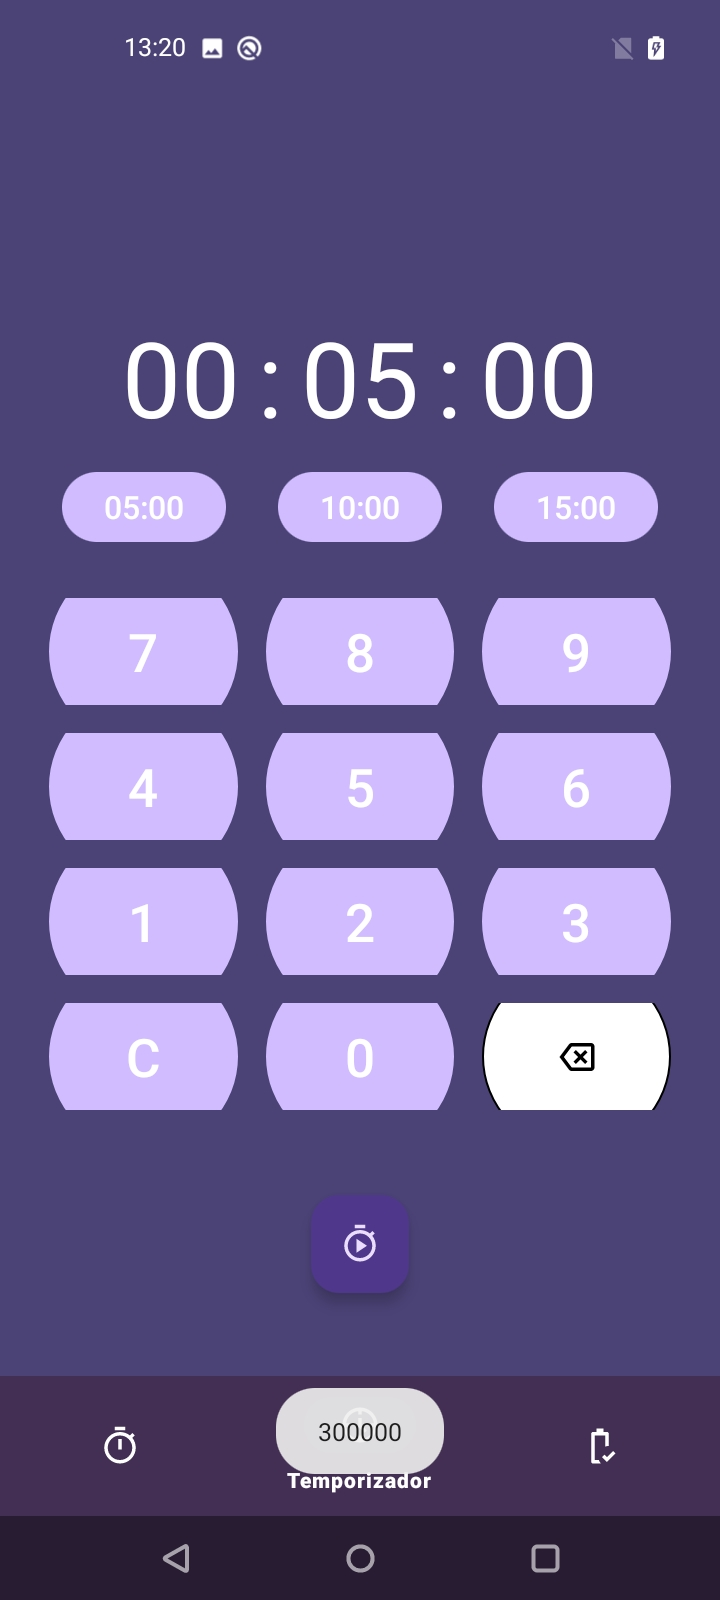
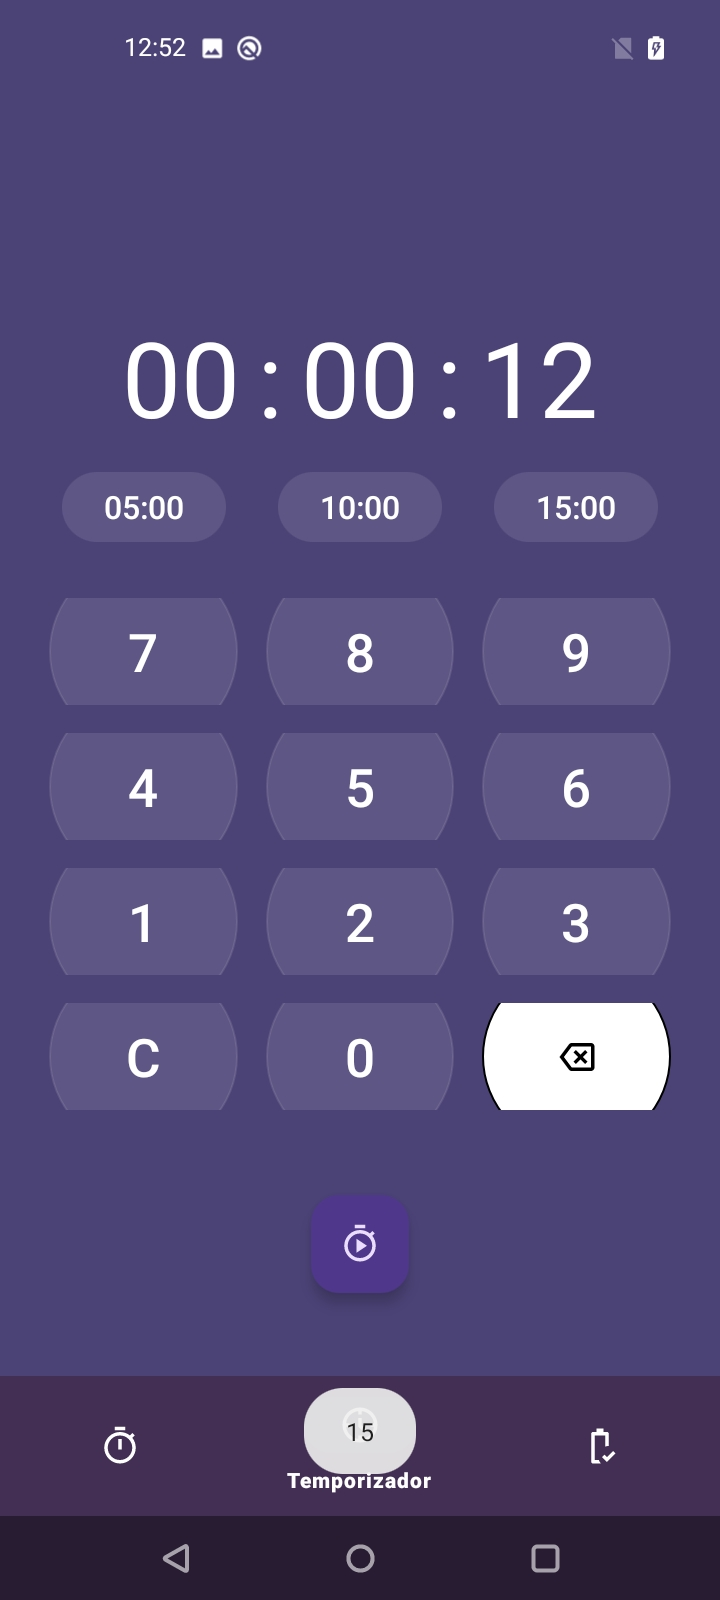
v 1.2.3

diff --git a/app/src/main/java/com/albrecht3/kompilation/clock/TimerFragment.kt b/app/src/main/java/com/albrecht3/kompilation/clock/TimerFragment.kt
@@ -61,50 +61,74 @@ class TimerFragment : Fragment() {
         initKeyboard()
         binding?.fabStart?.setOnClickListener {
             isClicked = !isClicked
-            Toast.makeText(requireContext(), valueTimer.toString(), Toast.LENGTH_LONG).show()
+            Toast.makeText(requireContext(), lapso, Toast.LENGTH_LONG).show()
             if (isClicked) {
                 startTimer(valueTimer)
                 disableButtons()
             }
         }
-        isClicked = false
     }
 
     private fun setTimeDefault() {
         val minute: Long = 60000
         binding?.btnSetTime1?.setOnClickListener {
-            valueTimer = 0
-            valueTimer = 5 * minute
-            binding?.tvTmpMin?.text = "05"
-            Toast.makeText(requireContext(), valueTimer.toString(), Toast.LENGTH_LONG).show()
+            lapso = "05"
+            valueTimer = lapso.toLong() * minute
+            binding?.tvTmpMin?.text = lapso
+            Toast.makeText(requireContext(), lapso, Toast.LENGTH_LONG).show()
         }
         binding?.btnSetTime2?.setOnClickListener {
-            valueTimer = 0
-            valueTimer = 10 * minute
-            binding?.tvTmpMin?.text = "10"
-            Toast.makeText(requireContext(), valueTimer.toString(), Toast.LENGTH_LONG).show()
+            lapso = "10"
+            valueTimer = lapso.toLong() * minute
+            binding?.tvTmpMin?.text = lapso
+            Toast.makeText(requireContext(), lapso, Toast.LENGTH_LONG).show()
         }
         binding?.btnSetTime3?.setOnClickListener {
-            valueTimer = 0
-            valueTimer = 15 * minute
-            binding?.tvTmpMin?.text = "15"
-            Toast.makeText(requireContext(), valueTimer.toString(), Toast.LENGTH_LONG).show()
+            lapso = "15"
+            valueTimer = lapso.toLong() * minute
+            binding?.tvTmpMin?.text = lapso
+            Toast.makeText(requireContext(), lapso, Toast.LENGTH_LONG).show()
         }
     }
 
     private fun initKeyboard() {
         val second: Long = 1000
+        var sec = ""
+        var min = ""
+        var hrs = ""
         binding?.gridKeyboard?.children?.filterIsInstance<Button>()?.forEach { button ->
             button.setOnClickListener {
                 val btnText = button.text.toString()
                 when {
                     btnText.matches("[0-9]".toRegex()) -> {
                         lapso += btnText
-                        valueTimer = lapso.toLong() * second
+                        if (lapso.toLong() <60){
+                            binding?.tvTmpSec?.text = makeTimeString(lapso.toLong())
+                            valueTimer = lapso.toLong() * second
+                        }else{
+                            lapsoChunked = lapso.reversed().chunked(2) { it.toString() }
+                            if (lapsoChunked.size <3){
+                                sec = lapsoChunked[0].reversed()
+                                min = lapsoChunked[1].reversed()
+                                binding?.tvTmpSec?.text = makeTimeString(sec.toLong())
+                                binding?.tvTmpMin?.text = makeTimeString(min.toLong())
+                                valueTimer = (sec.toLong() * second) + ((min.toLong()*second)*60)
+                            }else{
+                                sec = lapsoChunked[0].reversed()
+                                min = lapsoChunked[1].reversed()
+                                hrs = lapsoChunked[2].reversed()
+                                binding?.tvTmpSec?.text = makeTimeString(sec.toLong())
+                                binding?.tvTmpMin?.text = makeTimeString(min.toLong())
+                                binding?.tvTmpHour?.text = makeTimeString(hrs.toLong())
+                                valueTimer = (sec.toLong() * second) + (min.toLong()*second*60) + (hrs.toLong()*second*3600)
+                            }
+                        }
                         Toast.makeText(requireContext(), lapso, Toast.LENGTH_SHORT).show()
                     }
+                    btnText == "C"->{
+                        reset()
+                    }
                 }
-                lapsoChunked = lapso.chunked(2) { it.toString() }
             }
         }
     }
@@ -124,10 +148,10 @@ class TimerFragment : Fragment() {
                 binding?.tvTmpHour?.text = getString(R.string.tmp_default)
                 binding?.tvTmpMin?.text = getString(R.string.tmp_default)
                 binding?.tvTmpSec?.text = getString(R.string.tmp_default)
-                Toast.makeText(requireContext(), getString(R.string.time_out), Toast.LENGTH_SHORT)
-                    .show()
+                Toast.makeText(requireContext(), getString(R.string.time_out), Toast.LENGTH_SHORT).show()
+                enableButtons()
+                reset()
             }
-
         }.start()
     }
 
@@ -135,11 +159,31 @@ class TimerFragment : Fragment() {
         return String.format(Locale.getDefault(), "%02d", time)
     }
 
+    private fun reset() {
+        binding?.tvTmpHour?.text ="00"
+        binding?.tvTmpMin?.text ="00"
+        binding?.tvTmpSec?.text ="00"
+        valueTimer = 0
+        lapso = ""
+        isClicked = false
+    }
+
+    private fun enableButtons() {
+        binding?.btnSetTime1?.isEnabled = true
+        binding?.btnSetTime2?.isEnabled = true
+        binding?.btnSetTime3?.isEnabled = true
+        binding?.gridKeyboard?.children?.filterIsInstance<Button>()?.forEach {
+            it.isEnabled = true
+        }
+    }
+
     private fun disableButtons() {
         binding?.btnSetTime1?.isEnabled = false
         binding?.btnSetTime2?.isEnabled = false
         binding?.btnSetTime3?.isEnabled = false
-        binding?.gridKeyboard?.isEnabled = false
+        binding?.gridKeyboard?.children?.filterIsInstance<Button>()?.forEach {
+            it.isEnabled = false
+        }
     }
 }
 

diff --git a/README.md b/README.md
@@ -8,7 +8,7 @@
 <p>cronometro</p>
 
 <p>Temporizador</p>
-<p align="center"><img src="screenshots/timer1.jpg" height=400/> <p align="center"><img src="screenshots/timer2.jpg" height=400/> <p align="center"><img src="screenshots/timer3.jpg" height=400/>
+<p align="center"><img src="screenshots/timer1.jpg" height=400/> <img src="screenshots/timer2.jpg" height=400/> <img src="screenshots/timer3.jpg" height=400/> </p>
 
 <p>Informacion de Bateria</p>
 <p align="center"><img src="screenshots/battery.jpg" height=400/>
